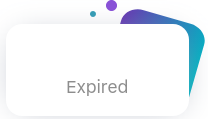
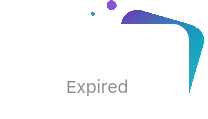
implement element size

diff --git a/src/components/Homepage/index.css b/src/components/Homepage/index.css
@@ -25,8 +25,7 @@
     letter-spacing: 0.53px;
 }
 .home-page-container .row.home-panel .col-lg-6.right-image {
-    padding-left: 0;
-    padding-right: 2%;
+    padding: 5% 7% 5% 5%;
 }
 .home-page-container .row.home-panel .col-lg-6 img, .row.home-job-panel .col-lg-6 img {
     width: 100%;
@@ -38,25 +37,25 @@
 .home-page-container .row.home-job-panel .col-lg-6.left-job-image {
     position: relative;
     padding-left: 13%;
-    padding-right: 3%;
+    padding-right: 5%;
 }
 .home-page-container .row.home-job-panel .col-lg-6.right-business-image {
     position: relative;
-    padding-left: 3%;
+    padding-left: 5%;
     padding-right: 13%;
 }
 .home-page-container .row.home-job-panel .col-lg-6.left-job-image img:nth-child(2) {
     position: absolute;
     width: 31%;
     bottom: 11%;
-    left: 43%;
-   
+    left: 42%;
+   margin-left: 0;
 }
 .home-page-container .row.home-job-panel .col-lg-6.right-business-image img:nth-child(2) {
     position: absolute;
     width: 31%;
     bottom: 11%;
-    right: 45%;
+    right: 43%;
 }
 .home-page-container .row.home-job-panel .col-lg-6.right-business-image img:nth-child(3) {
     position: absolute;
@@ -79,7 +78,7 @@
 
 .home-page-container .why-jobzone-panel .row .col-lg-4 {
     text-align: center;
-    padding-top: 6%;
+    padding: 6% 3% 0 3%;
 }
 .home-page-container .why-jobzone-panel .row .col-lg-4 h1 {
     padding-top: 18%;

diff --git a/src/components/Profile/index.css b/src/components/Profile/index.css
@@ -21,7 +21,7 @@
 .col-xl-8 .profile-content-container {
     margin-top: 2rem;
     margin-bottom: 2rem;
-    padding: 6% 8% 6% 6%;
+    padding: 6% 5% 6% 5%;
     background-color: #ffffff;
     border-radius: 6px;
     -webkit-box-shadow: 0px 2px 21px 0px rgba(0,0,0,0.35);
@@ -45,6 +45,7 @@
     flex-direction: column;
 }
 .col-xl-8 .profile-content-container form .top-profile-content div:nth-child(1) label {
+    margin-top: 5%;
     color: #8951d7;
     font-size: 12px;
     font-weight: 400;
@@ -60,6 +61,7 @@
     border: 1px solid #ebebeb;
 }
 .col-xl-8 .profile-content-container form .top-profile-content div:nth-child(2) {
+    margin-left: 2%;
     display: flex;
     flex-direction: column;
     justify-content: center;
@@ -89,7 +91,7 @@
     margin-left: 10px;
 }
 .col-xl-8 .profile-content-container form .top-profile-content div:nth-child(3) img.profile-status {
-    align-self: center;
+    align-self: start;
 }
 .col-xl-8 .profile-content-container form .bottom-profile-content {
     margin-top: 2rem;

diff --git a/src/components/Job/index.js b/src/components/Job/index.js
@@ -16,7 +16,7 @@ class Job extends Component {
             <DashboardContainer isProfile={ false }>
                 <div className="job-content">
                         <div className="mark-container">
-                            <div className="mark-content">
+                            <div className="mark-content active">
                                 <img src={ MarkOpenJob } alt="Mark Background Image" />
                                 <Label>1</Label>
                             </div>
@@ -26,7 +26,7 @@ class Job extends Component {
                             </div>
                             <div className="mark-content">
                                 <img src={ MarkExpired } alt="Mark Background Image" />  
-                                <Label>0</Label>
+                                <Label>0</Label>    
                             </div>
                         </div>
                         <div className="main-container">

diff --git a/src/components/Header/index.css b/src/components/Header/index.css
@@ -6,6 +6,7 @@
 .nliheader-container {
     padding: 1% 0;
     background-color: #f7f8fb;
+    
 }
 .nliheader-container nav {
     width: 73%;
@@ -36,7 +37,11 @@
     background-size: 95%;
 }
 .nliheader-container .nav-item .button-gradient {
-    color: white;
+    color: white ;
+    opacity: 0.6;
+}
+.nliheader-container .nav-item .button-gradient {
+    cursor: pointer;
 }
 @media screen and (max-width: 1364px) {
     .nliheader-container .nav-item .nav-text {
@@ -71,8 +76,8 @@
     width: 90%;
     margin: 0 18% 0 2%;
     padding: 1rem 1%;
-    background-color: #ffffff;
-
+    /* background-color: #ffffff; */
+    background-color: transparent;
     /* -webkit-box-shadow: 0px 5px 21px -3px rgba(0,0,0,0.75);
     -moz-box-shadow: 0px 5px 21px -3px rgba(0,0,0,0.75);
     box-shadow: 0px 5px 21px -3px rgba(0,0,0,0.75); */

diff --git a/src/components/DashboardContainer/index.css b/src/components/DashboardContainer/index.css
@@ -22,9 +22,12 @@
     width: 100%;
     min-height: calc(100vh - 96px);
     margin: 0;
-    -webkit-box-shadow: inset 0px 2px 21px 0px rgba(0,0,0,0.35);
+    /* -webkit-box-shadow: inset 0px 2px 21px 0px rgba(0,0,0,0.35);
     -moz-box-shadow: inset 0px 2px 21px 0px rgba(0,0,0,0.35);
-    box-shadow: inset 0px 2px 21px 0px rgba(0,0,0,0.35);
+    box-shadow: inset 0px 2px 21px 0px rgba(0,0,0,0.35); */
+    -webkit-box-shadow: inset 0px 3px 17px -2px rgba(0,0,0,0.35);
+    -moz-box-shadow: inset 0px 3px 17px -2px rgba(0,0,0,0.35);
+    box-shadow: inset 0px 3px 17px -2px rgba(0,0,0,0.35);
 }
 @media screen and (min-width: 883px) {
     width: 234px !important;

diff --git a/src/components/Header/NLIHeader.js b/src/components/Header/NLIHeader.js
@@ -44,7 +44,7 @@ class NLIHeader extends Component {
                                 <NavLink className="nav-text" href="/log-in">Sign In</NavLink>
                             </NavItem>
                             <NavItem className="background-gradient">
-                                <NavLink className="nav-text button-gradient" href="#">Hire Workers</NavLink>
+                                <NavLink className="nav-text button-gradient">Hire Workers</NavLink>
                             </NavItem>
                         </Nav>
                     </Collapse>

diff --git a/src/components/Message/LeftJobComponent/index.js b/src/components/Message/LeftJobComponent/index.js
@@ -6,8 +6,9 @@ import LocationIcon from '../../../assets/images/message/location-icon.png'
 
 class LeftJobComponent extends Component {
     render () {
+        const { isActive } = this.props
         return (
-            <div className="left-job-container">
+            <div className={ isActive? "left-job-container active" : "left-job-container"}>
                 <div>
                     <img src={JobImage} alt="Job Image"/>
                 </div>

diff --git a/src/components/Message/index.js b/src/components/Message/index.js
@@ -43,7 +43,7 @@ class Message extends Component {
             <DashboardContainer isProfile={ true }>
                 <div className="message-container">
                     <div className="message-left-panel">
-                        <LeftJobComponent />
+                        <LeftJobComponent isActive={true}/>
                         <LeftJobComponent />
                     </div>
                     <div className="message-right-panel">

diff --git a/src/components/Message/RightUserMessageComponent/index.css b/src/components/Message/RightUserMessageComponent/index.css
@@ -50,7 +50,7 @@
 }
 .right-message-container .left-card .left-location-container label {
     padding: 0;
-    margin-left: 3%;
+    margin-left: 2% !important;
     color: #8d8d8d;
     font-size: 14px;
     font-weight: 400;
@@ -67,6 +67,7 @@
 }
 .right-message-container .right-card img {
     cursor: pointer;
+    margin-left: 0;
 }
 .right-message-container .right-card .scheduled {
     display: flex;

diff --git a/src/components/Message/LeftJobComponent/index.css b/src/components/Message/LeftJobComponent/index.css
@@ -3,6 +3,9 @@
     flex-direction: row;
     padding: 3% 1%;
     margin: 1% 0;
+    
+}
+.left-job-container.active {
     background-color: #f3ecfa;
 }
 .left-job-container div:nth-child(1) {
@@ -46,6 +49,7 @@
     font-size: 11px;
     font-weight: 400;
     line-height: 22px;
+    margin-left: 2%;
 }
 .left-job-container div:nth-child(2) label.candidate {
     color: #252525;

diff --git a/src/components/Job/index.css b/src/components/Job/index.css
@@ -27,12 +27,14 @@
     left: 43%;
     top: 35%;
     padding: 0px;
-    color: #8951d7;
+    color: #8d8d8d;
     font-size: 25px;
     font-weight: 500;
     letter-spacing: -0.35px;
 }
-
+.job-content .mark-container .mark-content.active label:nth-child(2){
+    color: #8951d7;
+}
 .job-content .main-container {
     max-width: 100%;
     height: 100%;

diff --git a/src/components/Footer/index.css b/src/components/Footer/index.css
@@ -28,6 +28,12 @@
 .footer-container .footer-body .logo-text .zone-text {
     font-weight: 400;
 }
+.footer-container .footer-body .row .col-lg-4 {
+    padding-left: 0;
+}
+.footer-container .footer-body .row .col-lg-4 img {
+    margin-left: 0;
+}
 /* Follow Items  */
 .footer-container .footer-body .row .col-lg-4 .follow-items {
    display: flex;
